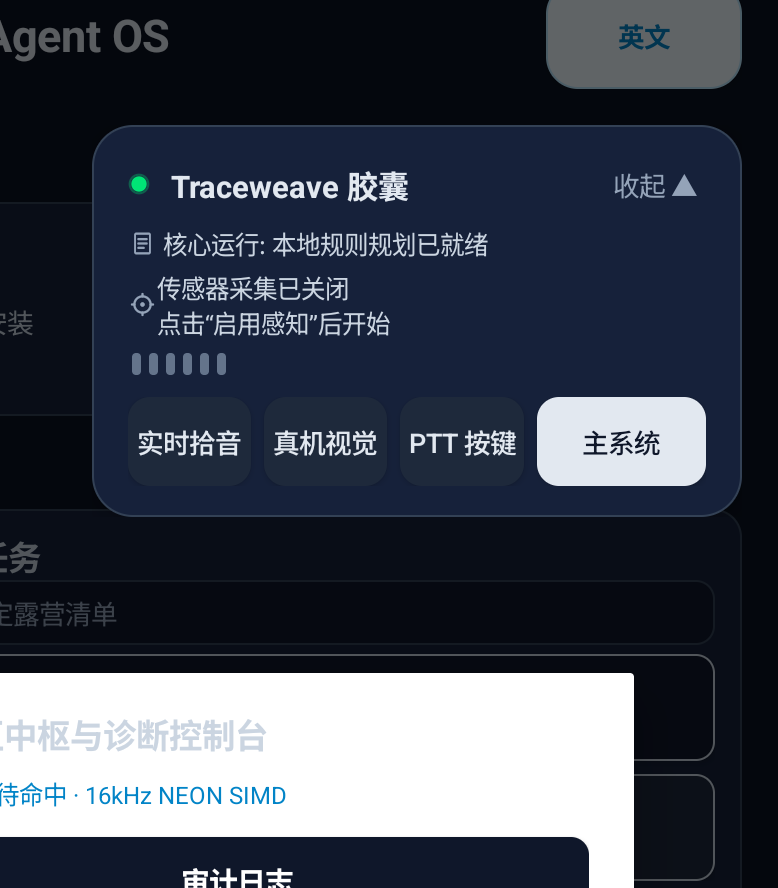
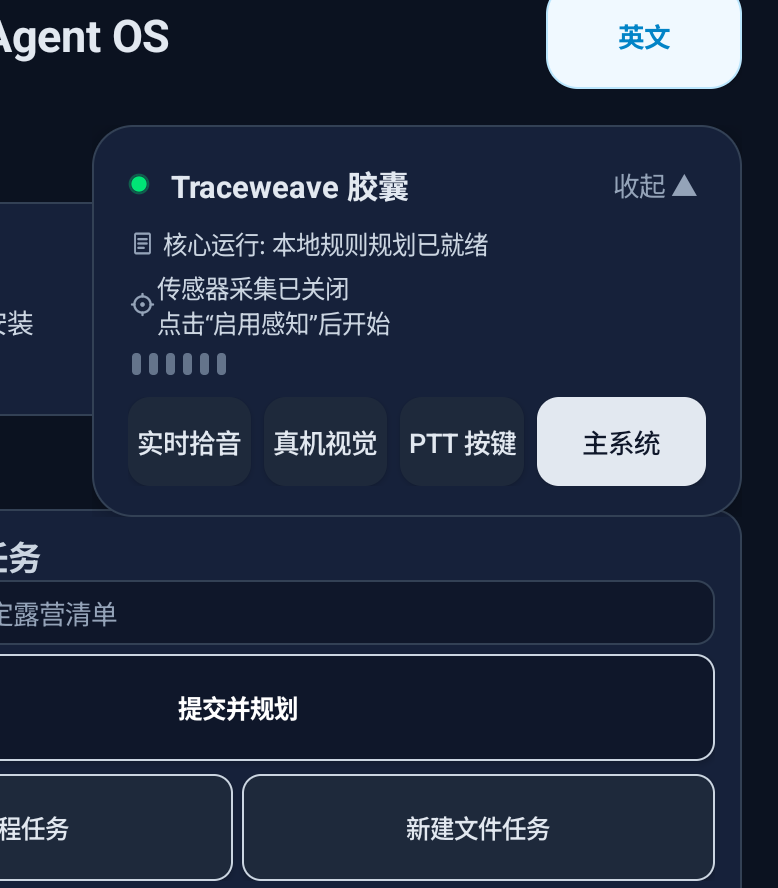
Rebuild the capsule on theme changes and cut 0.1.3

diff --git a/agent_os/android/src/com/inceptless/traceweave/AgentFloatingService.java b/agent_os/android/src/com/inceptless/traceweave/AgentFloatingService.java
@@ -457,6 +457,66 @@ public final class AgentFloatingService extends Service {
         });
     }
 
+    /**
+     * The overlay is its own window, so it does not restyle itself when the system
+     * switches between light and dark. Rebuilding the view keeps the capsule in the
+     * same theme as the app; the expansion state and drag position are carried over.
+     */
+    @Override
+    public void onConfigurationChanged(android.content.res.Configuration configuration) {
+        super.onConfigurationChanged(configuration);
+        rebuildForCurrentTheme();
+    }
+
+    private void rebuildForCurrentTheme() {
+        boolean wasExpanded = isExpanded;
+        int x = floatingParams == null ? dp(16) : floatingParams.x;
+        int y = floatingParams == null ? dp(110) : floatingParams.y;
+        tearDownView();
+        initFloatingLayout();
+        if (floatingView == null) return;
+        if (floatingParams != null) {
+            floatingParams.x = x;
+            floatingParams.y = y;
+            try {
+                if (windowManager != null) windowManager.updateViewLayout(floatingView, floatingParams);
+            } catch (Exception ignored) {
+            }
+        }
+        isExpanded = !wasExpanded; // toggleExpansion() flips the flag
+        toggleExpansion();
+        updateLocaleTexts();
+    }
+
+    private void tearDownView() {
+        sensorHandler.removeCallbacks(sensorRefresh);
+        if (floatingView != null && windowManager != null) {
+            try {
+                windowManager.removeView(floatingView);
+            } catch (Exception ignored) {
+            }
+        }
+        floatingView = null;
+        ballView = null;
+        expandedCard = null;
+        ballDotView = null;
+        statusDotView = null;
+        statusTextView = null;
+        collapseBtn = null;
+        jitContainer = null;
+        jitTitle = null;
+        jitPromptView = null;
+        btnGrant = null;
+        btnDeny = null;
+        taskDetailView = null;
+        sensoriumDetailView = null;
+        voiceWaveformBar = null;
+        btnVoice = null;
+        btnVision = null;
+        btnPtt = null;
+        btnOpenApp = null;
+    }
+
     private void toggleExpansion() {
         isExpanded = !isExpanded;
         sensorHandler.removeCallbacks(sensorRefresh);

diff --git a/docs/agent_os_milestones_2026-10-30.md b/docs/agent_os_milestones_2026-10-30.md
@@ -414,6 +414,7 @@
 - 2026-10-31：把修复回路接进应用——文稿重试时会把上次的校验失败原因写回提示（`strictPrompt(goal, memories, previousFailure)`），不再只是“再说一次”。
 - 2026-10-31：内容质量实验（严格提示 vs 修复回路）——同一 10 例、grammar + 512 token：基线内容 **5/10**，加“不要复述示例/用真实日期/类型匹配”的严格提示升到 **6/10**，再加一轮“把失败项写回提示重生成”的修复后升到 **10/10**（4 例被修复）。结论：**校验 + 定向重生成**比单纯加强提示有效得多。数据 [json7_strict_prompt](../artifacts/agent_os/next_stage/json7_strict_prompt_20261031.json)、[json8_repair](../artifacts/agent_os/next_stage/json8_repair_20261031.json)。
 - 2026-10-31：**Edge 应用同步改名**——`android/` 的 Traceform 应用改为 `com.inceptless.traceweave.edge`：97 个 Java 源文件迁移、清单与签名权限、`knownCerts` 引用、跨应用调用方白名单（`com.inceptless.traceweave` / `.actionsvalidation`）、JNI 符号（11 处）、security probe 包名、以及 `scripts/` 与 `tests/` 中 62 个文件。验证：agent_os 宿主测试 58 项通过；根 pytest **597 passed / 1 failed（既有问题，见下）/ 11 skipped**。
+- 2026-11-04：**胶囊跟随深浅色 + 0.1.3**——新增 `AgentFloatingService.onConfigurationChanged()` → `rebuildForCurrentTheme()`：拆除并重建悬浮视图，保留展开状态与拖拽坐标，再刷新文案。设备实测：胶囊展开时切换系统深色，卡片原地变深（无需隐藏再显示），切回浅色同样恢复。随后出 **0.1.3 / versionCode 4**：preflight `ok`、烟雾 `ok`、设备套件 48/10/20 全过、草稿发布 6 个资产 `verify_github_release: ok`（**尚未公开**）。
 - 2026-11-04：**悬浮胶囊贴合主界面**——此前是深海军蓝 + 青色发光描边 + 蓝色按钮，与浅色单色系界面脱节。现改为：收起态为卡片色的圆形按钮（1dp 描边、墨色标记、4dp 阴影、保留绿色状态点）；展开态为 18dp 圆角卡片（1dp 描边、8dp 阴影、墨色标题、静音色「收起」）；操作行三枚次级按钮 + 一枚实心主按钮「主系统」，高度 40dp；波形条改为圆角浅灰。深色模式下主按钮反转为近白底墨字，避免深底深按钮。设备实测三种状态（收起/浅色展开/深色展开）截图见收据。已知限制：胶囊沿用创建时的主题，运行中切换系统深浅色需重新显示才会生效。
 - 2026-11-03：**首次无门控 CI 通过**——提交 `9cde831` 触发的托管运行三 job 全绿（rust-core / sync-transport / android-host），运行 <https://github.com/haeliotang/traceweave/actions/runs/41690901787>；此前连续 5 次 push（含 v0.1.2 发布）都被 `[ci]` 门控跳过。收据 [ci_unguarded_20261103](../artifacts/agent_os/next_stage/ci_unguarded_20261103.json)。
 - 2026-11-03：**CI 门控移除 + 变更日志 + 两处文案测试**——①删除工作流里三处 `[ci]` 门控（那是私有仓库省额度时代的产物，公开后免费额度已回归），push 与 PR 都跑全量作业；`test_ci_workflow` 改为断言「不得再有门控」并在 `test_doc_links` 之外新增对 push/pull_request/workflow_dispatch 三触发的检查。②新增 `CHANGELOG.md`，按 0.1.0 / 0.1.1 / 0.1.2 与 Unreleased 记录，中英 README 顶部加链接。③新增 `test_audit_text.py` 与 `test_step_text.py`：覆盖中英文事件文案、参数渲染、参数去空格、未知事件回退，以及 `step.status.*` 目录键必须与 `ExecutionPlan` 状态常量完全一致（防止改名后 UI 退回裸标识符）。为让宿主测试可编译，`T`/`AuditText`/`StepText` 改为 public，`StepText.status` 去掉对 `ExecutionPlan` 的编译期依赖。宿主测试 74 项全绿。
